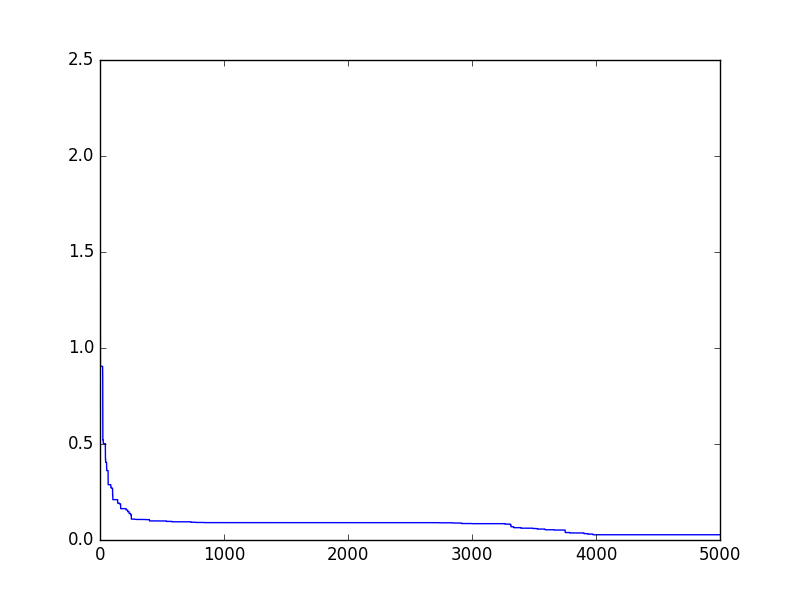
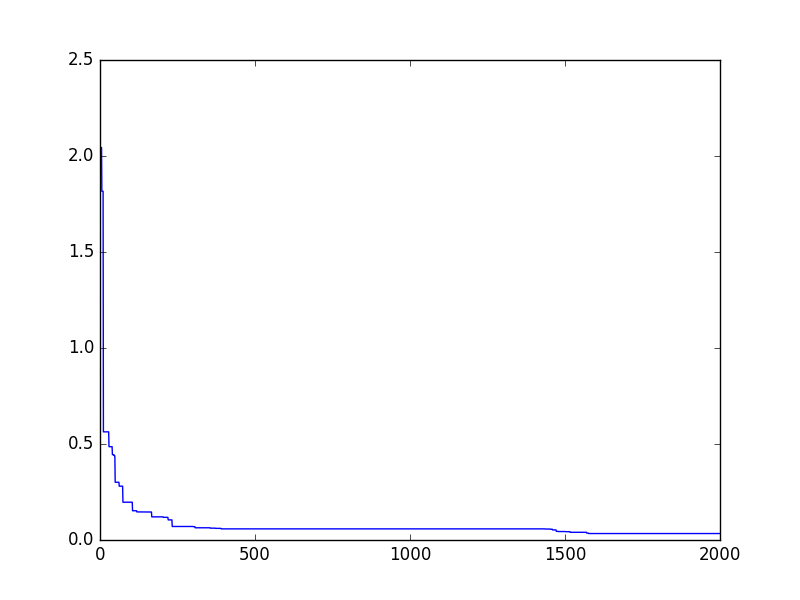
update pictures

Changed region(s): [[0.2188, 0.87, 0.9062, 0.93], [0.125, 0.69, 0.1562, 0.84], [0.1562, 0.84, 0.2188, 0.87]]

diff --git a/example/sequential_random_embedding/example.py b/example/sequential_random_embedding/example.py
@@ -5,12 +5,12 @@ Author:
     Yu-Ren Liu
 """
 
-import time
 import numpy as np
 from fx import sphere_sre
 from zoopt import Dimension, Objective, Parameter, Opt, Solution
 from zoopt.utils.zoo_global import gl
 import matplotlib.pyplot as plt
+
 
 def result_analysis(results, top):
     """
@@ -35,7 +35,6 @@ def sphere_continuous_sre():
 
     :return: no result
     """
-    t1 = time.clock()
     # repeat of optimization experiments
     repeat = 1
     result = []
@@ -50,7 +49,7 @@ def sphere_continuous_sre():
         objective = Objective(sphere_sre, dim, sre=True)  # form up the objective function
 
         # setup algorithm parameters
-        budget = 5000  # number of calls to the objective function
+        budget = 2000  # number of calls to the objective function
         parameter = Parameter(budget=budget, num_sre=5, low_dimension=Dimension(10, [[-1, 1]] * 10, [True] * 10),
                               withdraw_alpha=Dimension(1, [[-1, 1]], [True]), intermediate_result=False, intermediate_freq=100)
         # perform the optimization
@@ -66,8 +65,6 @@ def sphere_continuous_sre():
     # plt.show()
     plt.savefig("img/sphere_continuous_sre.png")  # uncomment this line and comment last line to save figures
     result_analysis(result, 1)
-    t2 = time.clock()
-    print('time costed %f seconds' % (t2 - t1))
 
 
 if __name__ == "__main__":

diff --git a/zoopt/random_embedding/sre_optimization.py b/zoopt/random_embedding/sre_optimization.py
@@ -10,7 +10,7 @@ from zoopt.dimension import Dimension
 import numpy as np
 import copy
 import math
-
+from zoopt.utils.tool_function import ToolFunction
 
 class SequentialRandomEmbedding:
     """
@@ -42,6 +42,7 @@ class SequentialRandomEmbedding:
         new_par.set_budget(math.floor(self.__parameter.get_budget()/iteration))
         new_obj.set_last_x(Solution(x=[0]))
         for i in range(iteration):
+            ToolFunction.log('sequential random embedding %d' % i)
             new_obj.set_A(np.sqrt(self.__parameter.get_variance_A()) *
                                    np.random.randn(dim.get_size(), self.__parameter.get_low_dimension().get_size()))
             new_dim = Dimension.merge_dim(self.__parameter.get_withdraw_alpha(), self.__parameter.get_low_dimension())

diff --git a/example/sequential_random_embedding/fx.py b/example/sequential_random_embedding/fx.py
@@ -7,6 +7,9 @@ Author:
 
 
 def sphere_sre(solution):
+    """
+    Variant of the sphere function. Dimensions except the first 10 ones have limited impact on the function value.
+    """
     a = 0
     bias = 0.2
     x = solution.get_x()
